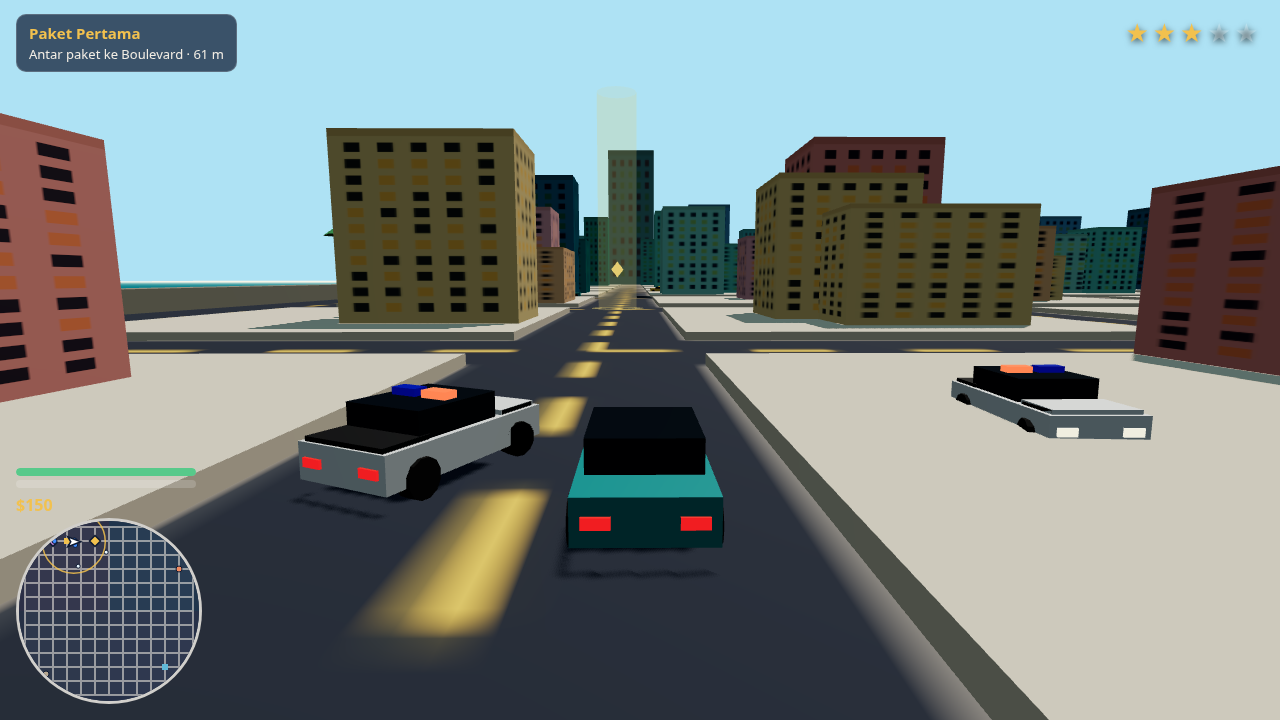
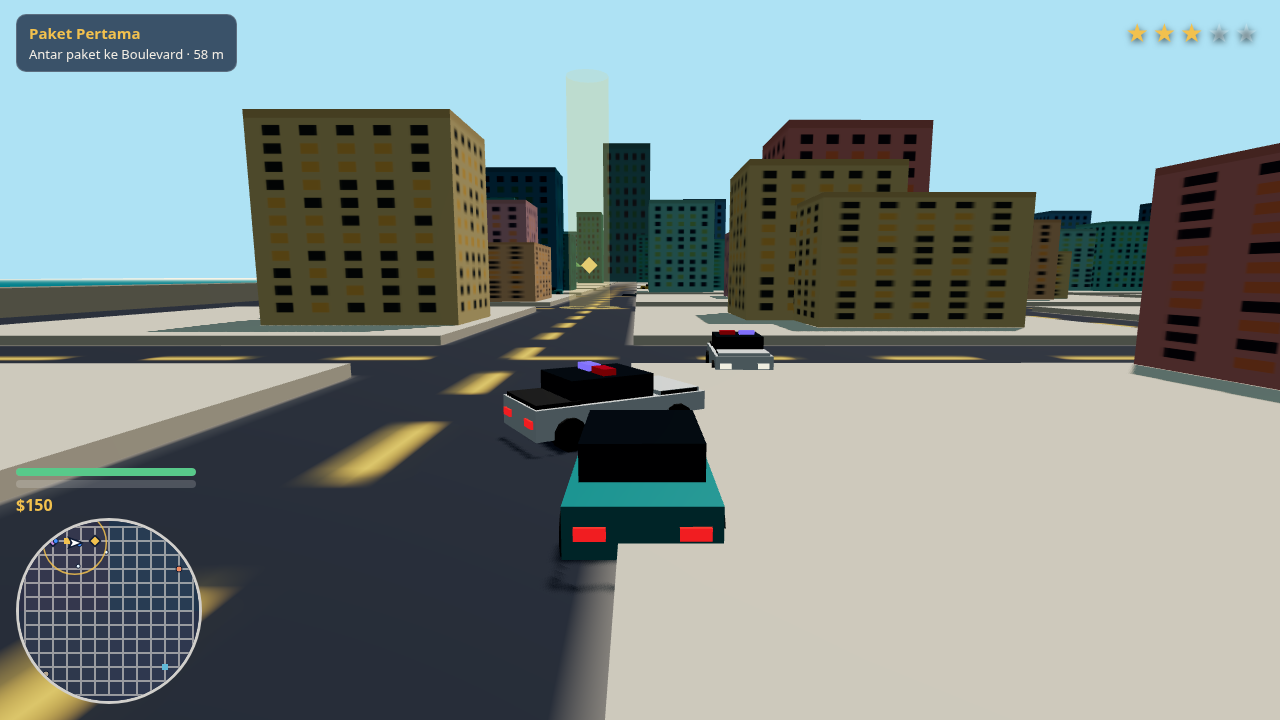
Fix: police stay on road during chase

diff --git a/game/src/core/police.js b/game/src/core/police.js
@@ -6,7 +6,7 @@
 // player's sports car (32) — that number lives in vehicles.js. Genre: open-world-crime §1-§3.
 
 import { makeRng } from './rng.js';
-import { nodeCoords, nearestNodeId } from './city.js';
+import { nodeCoords, nearestNodeId, HALF, SPACING } from './city.js';
 import { spawnVehicle, stepVehicle, damageVehicle } from './vehicles.js';
 
 const SIGHT_RANGE = 60;      // police see the player inside this distance
@@ -186,6 +186,23 @@ function relocateOutOfView(state, unit) {
   }
   unit.stuckCount = 0;
   unit.stuckT = 0;
+}
+
+// Road clamp: police cars drive on roads. Steering (ram beelines, fan-out
+// targets, wide turns at speed), collision shoves and reverse arcs can all
+// push a unit off the road band; without a constraint it keeps driving
+// across the sidewalk (and through blocks) until the waypoint steering
+// slowly pulls it back. Pull the car back inside the road band (4.5 units
+// either side of the nearest grid line — the road itself is 5) after every
+// physics step, so a police car is never seen driving on the pavement.
+const ROAD_HALF = 4.5;
+function clampToRoad(car) {
+  const gx = -HALF + SPACING * Math.round((car.x + HALF) / SPACING);
+  const gz = -HALF + SPACING * Math.round((car.z + HALF) / SPACING);
+  const dx = car.x - gx, dz = car.z - gz;
+  if (Math.min(Math.abs(dx), Math.abs(dz)) <= ROAD_HALF) return;
+  if (Math.abs(dx) <= Math.abs(dz)) car.x = gx + Math.sign(dx) * ROAD_HALF;
+  else car.z = gz + Math.sign(dz) * ROAD_HALF;
 }
 
 // Steering helper: the control input for stepVehicle toward a target point.
@@ -374,7 +391,10 @@ export function update(state, input, dt, ctx) {
       }
     }
 
-    if (car && car.health > 0) stepVehicle(state, car, control, dt, cityRef);
+    if (car && car.health > 0) {
+      stepVehicle(state, car, control, dt, cityRef);
+      clampToRoad(car);
+    }
 
     // --- anti-stuck: <0.5 units in 2 s while trying to move -> repath once, then relocate ---
     u.stuckT += dt;
